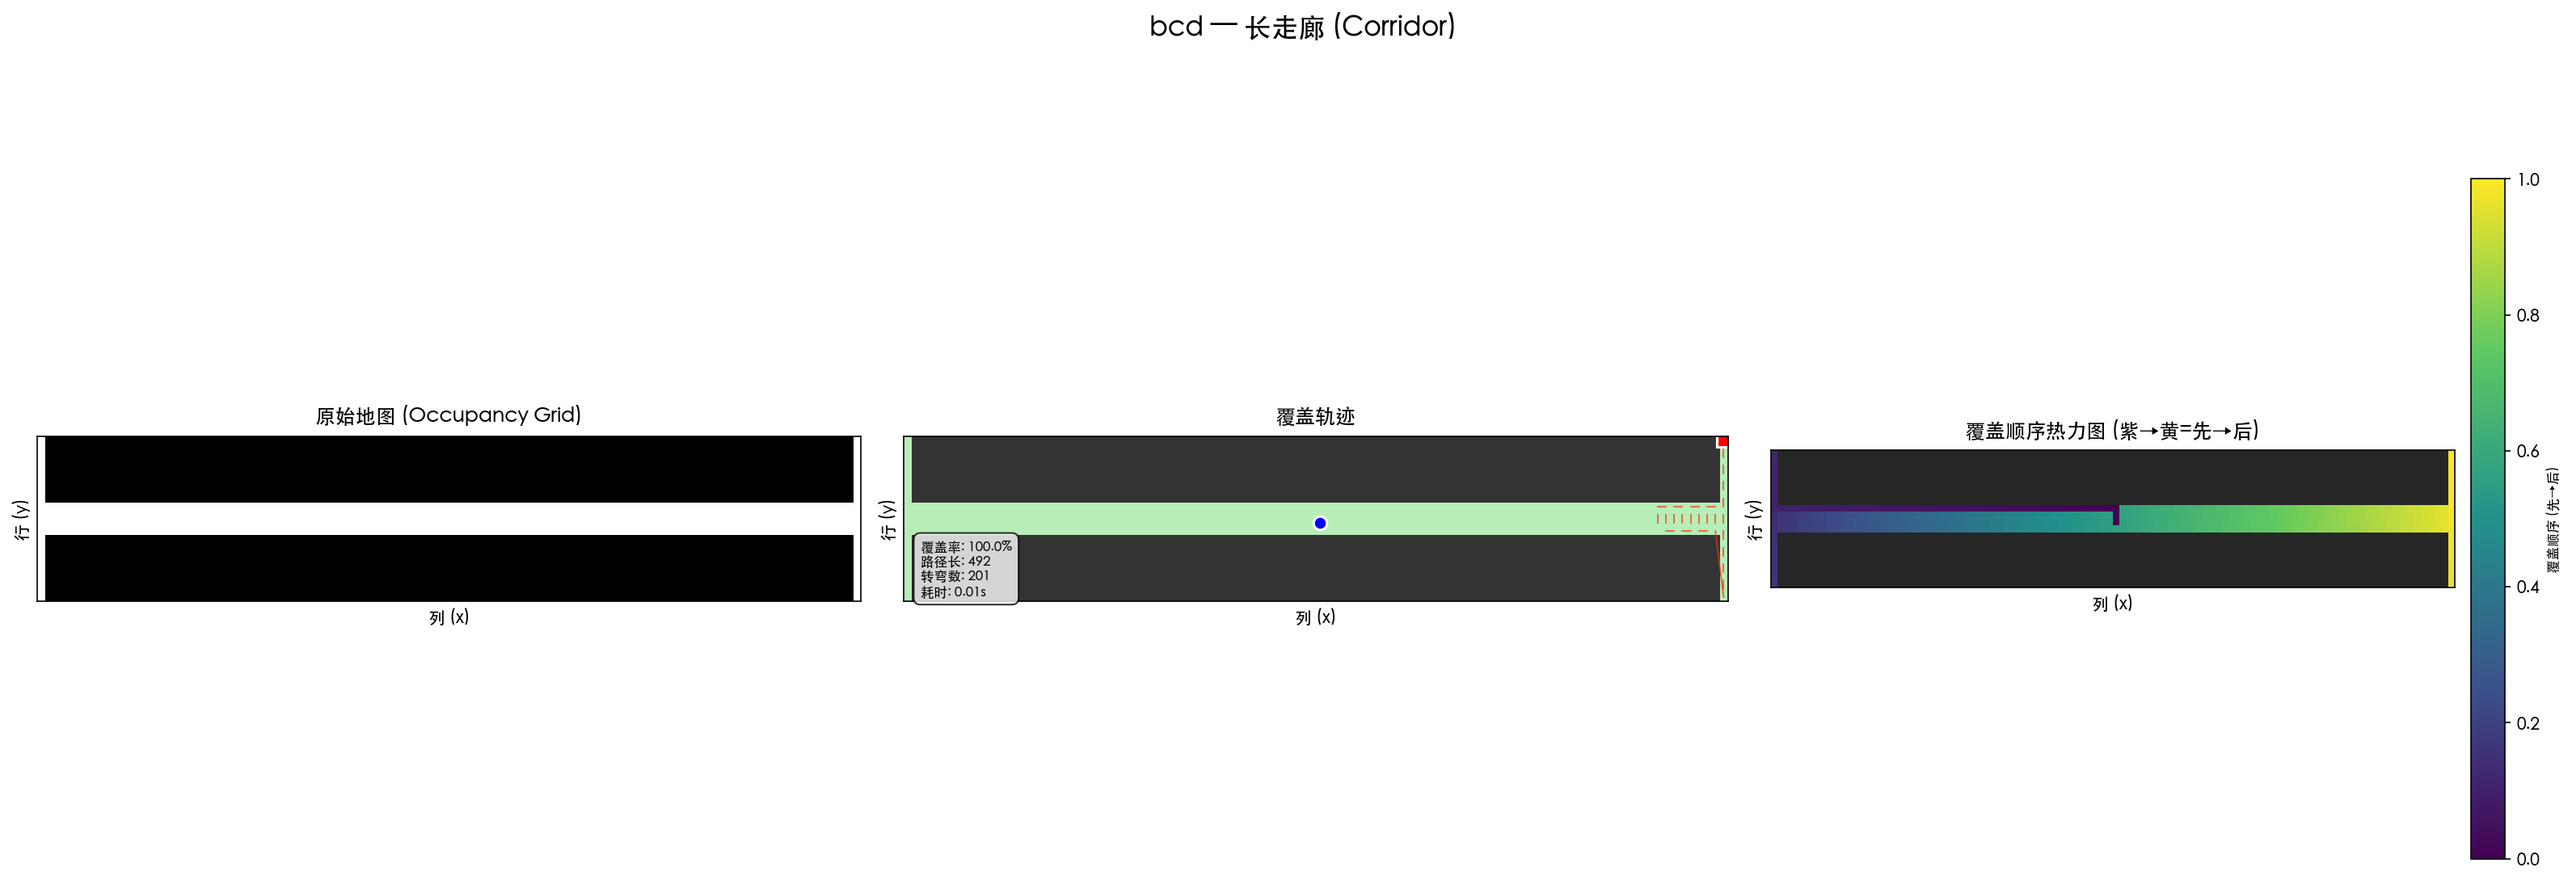
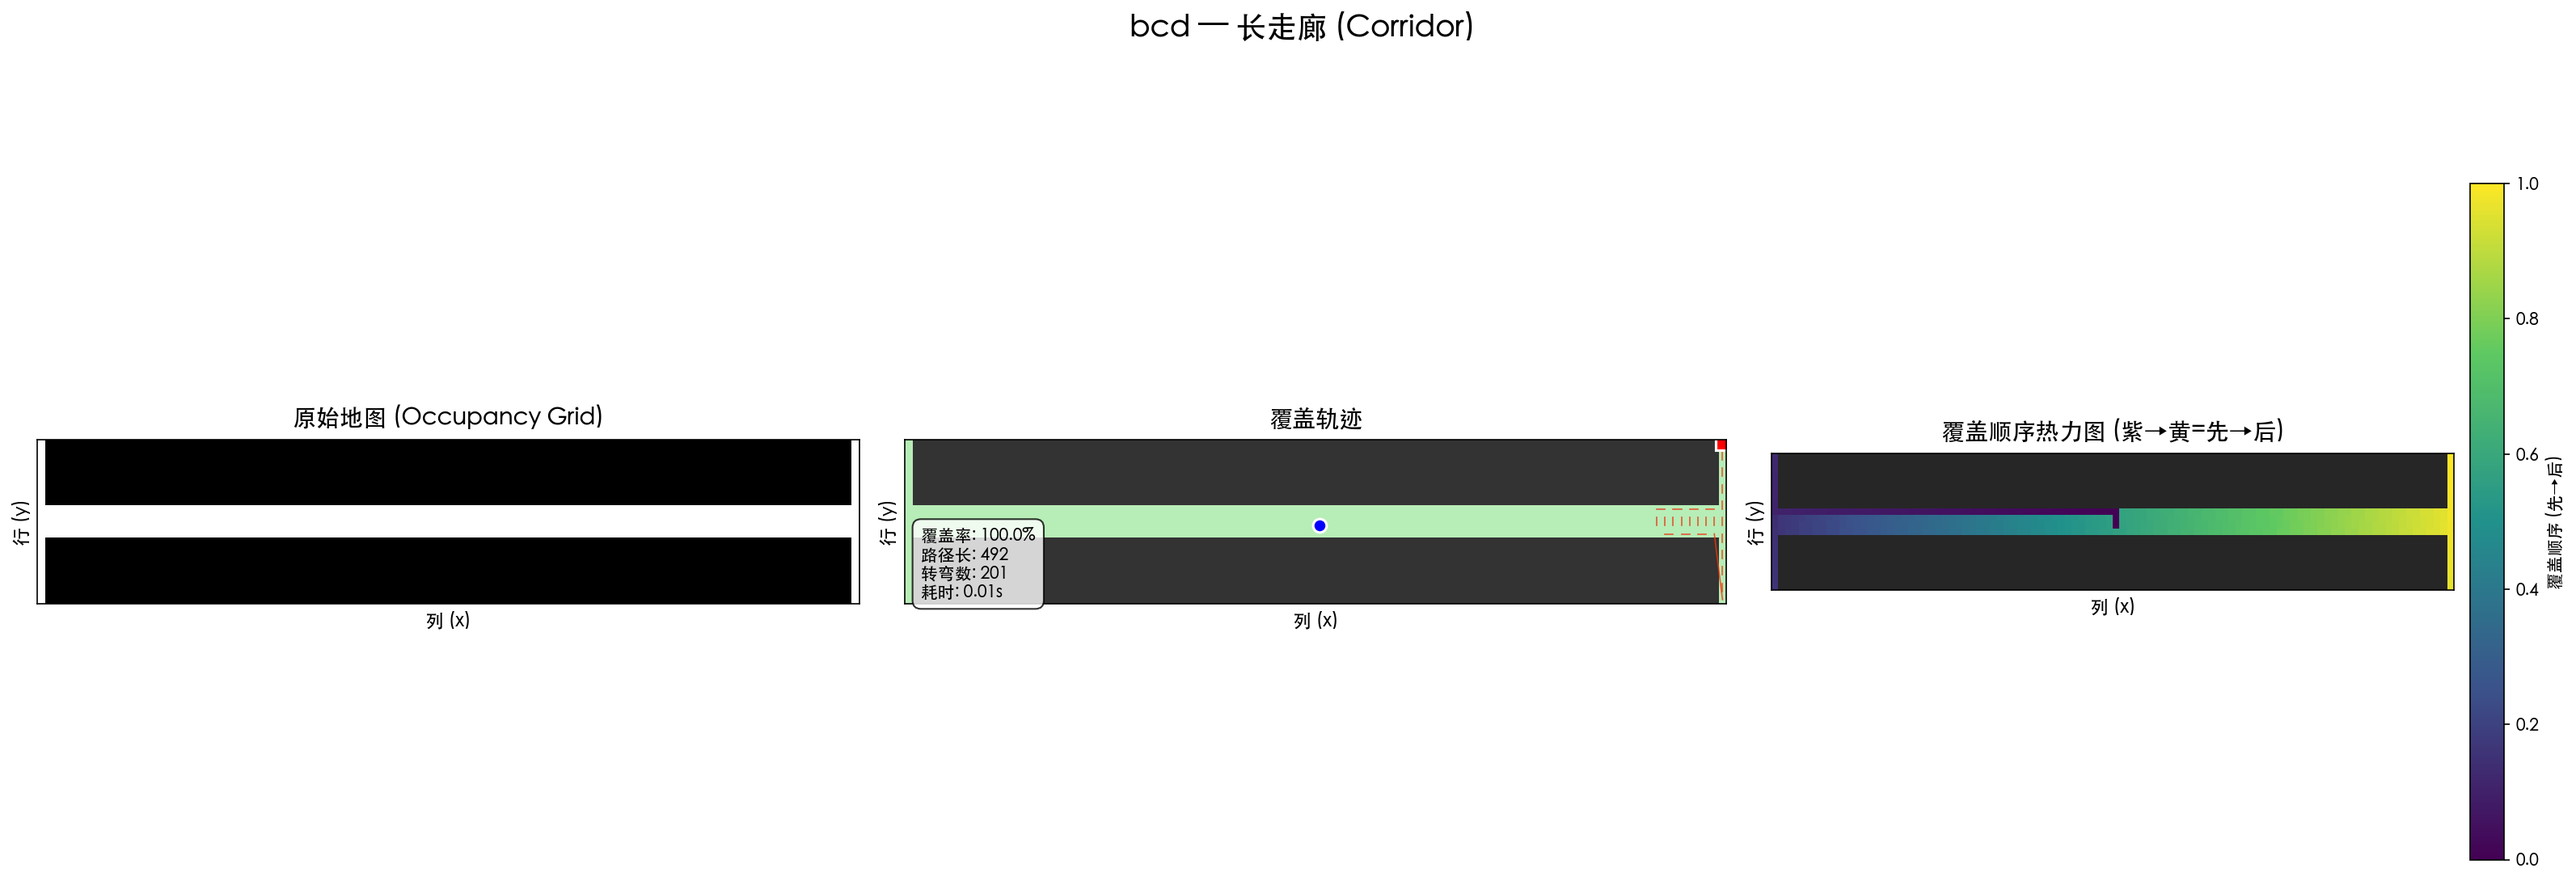
Enlarge font sizes in visualizations and regenerate all images
- Add configurable font size attributes (title_fs, suptitle_fs, label_fs, info_fs, cbar_fs)
- Increase subplot titles: 12→14, suptitle: 16→18
- Increase axis labels: default→11
- Increase info legend: 8→10, colorbar label: 8→10
- Regenerate all 20 result PNGs with larger, readable Chinese text

diff --git a/visualization/plotter.py b/visualization/plotter.py
@@ -68,6 +68,11 @@ class CoveragePlotter:
         """
         self.figsize = figsize
         self.dpi = dpi
+        self._title_fs = 14     # 子图标题
+        self._suptitle_fs = 18  # 总标题
+        self._label_fs = 11     # 坐标轴标签
+        self._info_fs = 10      # 图注信息
+        self._cbar_fs = 10      # 颜色条
 
     def plot_all(
         self,
@@ -102,7 +107,7 @@ class CoveragePlotter:
                                                   self.figsize[1]))
         fig.suptitle(
             f"{planner_name} — {self._format_map_name(map_name)}",
-            fontsize=16, fontweight='bold', y=0.98
+            fontsize=self._suptitle_fs, fontweight='bold', y=0.98
         )
 
         # 1. 原始地图
@@ -135,9 +140,9 @@ class CoveragePlotter:
     def _plot_raw_map(self, ax: plt.Axes, grid: np.ndarray) -> None:
         """绘制原始占据栅格地图。"""
         ax.imshow(grid, cmap='gray_r', interpolation='nearest')
-        ax.set_title('原始地图 (Occupancy Grid)', fontsize=12, pad=8)
-        ax.set_xlabel('列 (x)')
-        ax.set_ylabel('行 (y)')
+        ax.set_title('原始地图 (Occupancy Grid)', fontsize=self._title_fs, pad=8)
+        ax.set_xlabel('列 (x)', fontsize=self._label_fs)
+        ax.set_ylabel('行 (y)', fontsize=self._label_fs)
         ax.set_xticks([])
         ax.set_yticks([])
 
@@ -207,9 +212,9 @@ class CoveragePlotter:
                     color='red', markeredgecolor='white',
                     markeredgewidth=1.5, label='终点')
 
-        ax.set_title('覆盖轨迹', fontsize=12, pad=8)
-        ax.set_xlabel('列 (x)')
-        ax.set_ylabel('行 (y)')
+        ax.set_title('覆盖轨迹', fontsize=self._title_fs, pad=8)
+        ax.set_xlabel('列 (x)', fontsize=self._label_fs)
+        ax.set_ylabel('行 (y)', fontsize=self._label_fs)
         ax.set_xticks([])
         ax.set_yticks([])
 
@@ -223,7 +228,7 @@ class CoveragePlotter:
             )
             ax.text(
                 0.02, 0.02, info, transform=ax.transAxes,
-                fontsize=8, verticalalignment='bottom',
+                fontsize=self._info_fs, verticalalignment='bottom',
                 bbox=dict(boxstyle='round,pad=0.5',
                           facecolor='white', alpha=0.8)
             )
@@ -277,9 +282,9 @@ class CoveragePlotter:
         ax.imshow(display, interpolation='nearest')
 
         # 添加上色说明
-        ax.set_title('覆盖顺序热力图 (紫→黄=先→后)', fontsize=12, pad=8)
-        ax.set_xlabel('列 (x)')
-        ax.set_ylabel('行 (y)')
+        ax.set_title('覆盖顺序热力图 (紫→黄=先→后)', fontsize=self._title_fs, pad=8)
+        ax.set_xlabel('列 (x)', fontsize=self._label_fs)
+        ax.set_ylabel('行 (y)', fontsize=self._label_fs)
         ax.set_xticks([])
         ax.set_yticks([])
 
@@ -288,7 +293,7 @@ class CoveragePlotter:
         sm = plt.cm.ScalarMappable(cmap=COVERAGE_CMAP, norm=norm)
         sm.set_array([])
         cbar = plt.colorbar(sm, ax=ax, shrink=0.8, pad=0.02)
-        cbar.set_label('覆盖顺序 (先→后)', fontsize=8)
+        cbar.set_label('覆盖顺序 (先→后)', fontsize=self._cbar_fs)
 
     # ------------------------------------------------------------------
     # 批量可视化
@@ -325,7 +330,7 @@ class CoveragePlotter:
 
         fig.suptitle(
             f"算法对比 — {self._format_map_name(map_name)}",
-            fontsize=16, fontweight='bold', y=0.98
+            fontsize=self._suptitle_fs, fontweight='bold', y=0.98
         )
 
         for row, (planner_name, (path, covered, metrics)) in enumerate(
@@ -341,7 +346,7 @@ class CoveragePlotter:
                 axes[row, 1], grid, path, covered, metrics
             )
             axes[row, 1].set_ylabel(
-                planner_name, fontsize=10, fontweight='bold'
+                planner_name, fontsize=self._label_fs, fontweight='bold'
             )
 
             # 第三列：热力图
